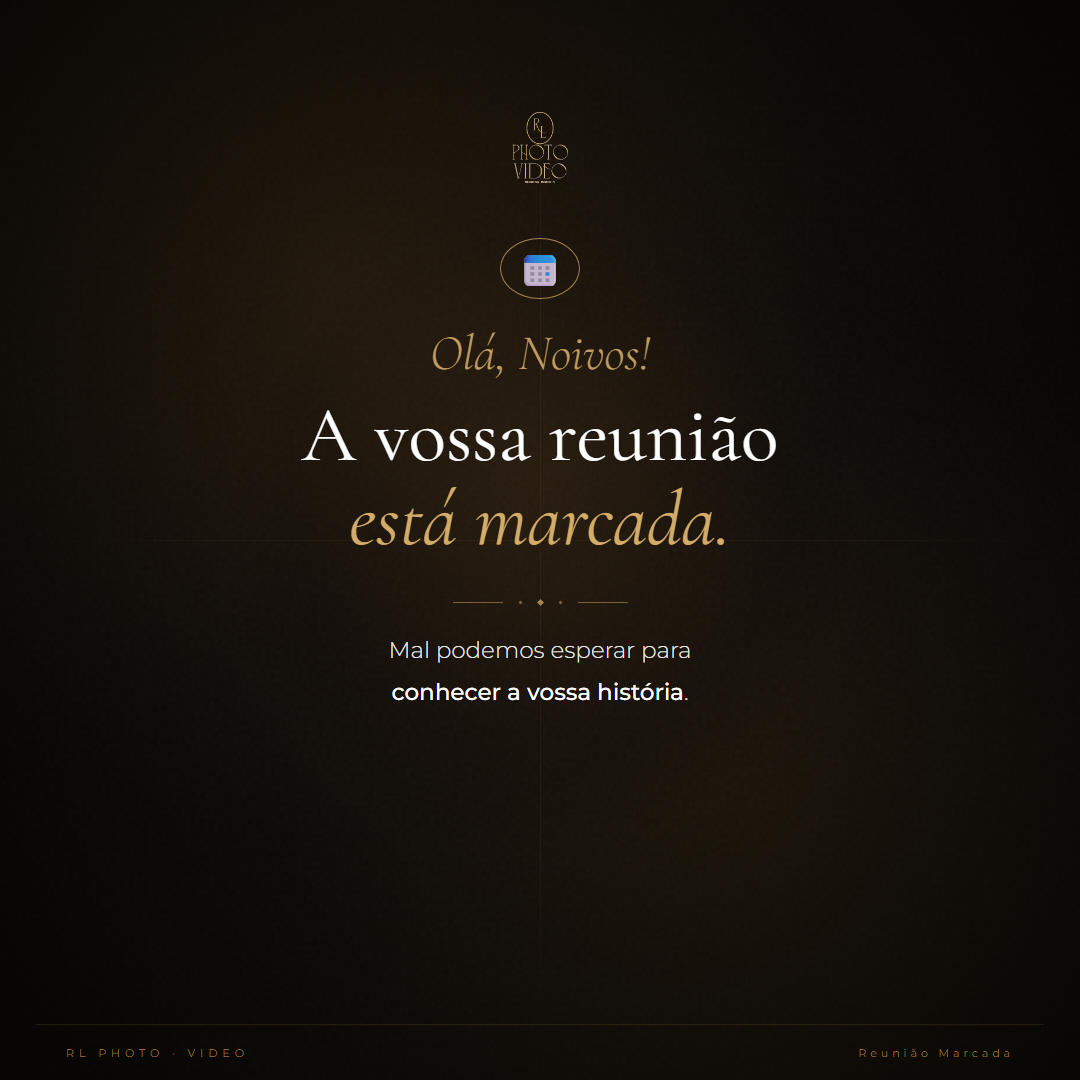
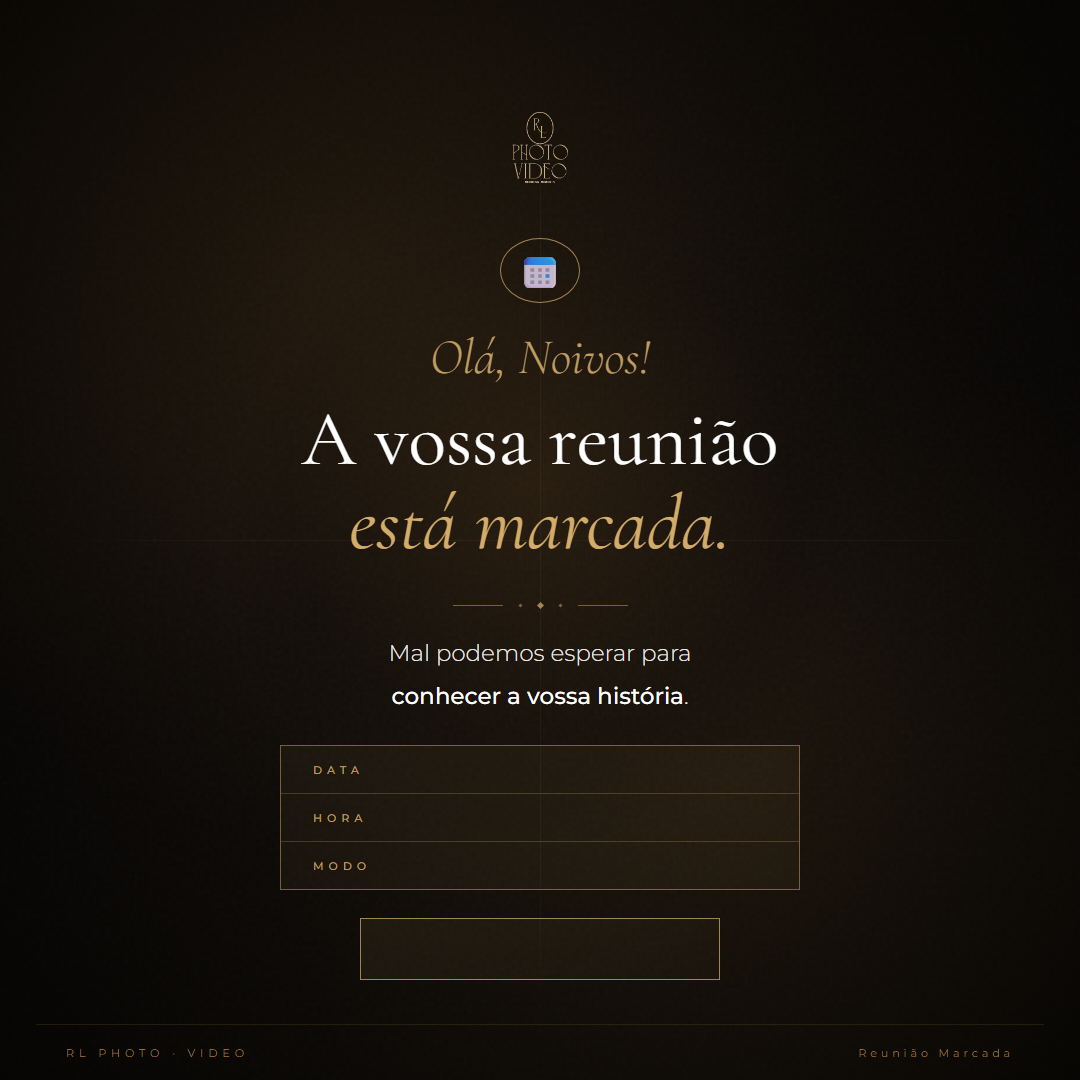
Email reunião: novo card com DATA/HORA/MODO, botão dinâmico Meet/Maps

diff --git a/app/api/send-reuniao-email/route.ts b/app/api/send-reuniao-email/route.ts
@@ -1,7 +1,8 @@
 import { NextRequest, NextResponse } from 'next/server'
 
-// Imagem de fundo: card design sem placeholders, espaço vazio no meio para os dados
 const IMAGE_URL = 'https://rl-menu-lake.vercel.app/card_reuniao_marcada.png'
+const MEET_LINK = 'https://meet.google.com/dih-etvh-xkh'
+const MAPS_LINK = 'https://www.google.com/maps/place/RL+Photo.Video/@38.7071885,-9.1450227,17z'
 
 function fmtData(d: string) {
   const [y, m, day] = d.split('-')
@@ -9,7 +10,7 @@ function fmtData(d: string) {
 }
 
 export async function POST(req: NextRequest) {
-  const { email, reuniao_data, reuniao_hora, reuniao_tipo, reuniao_link } = await req.json().catch(() => ({}))
+  const { email, reuniao_data, reuniao_hora, reuniao_tipo } = await req.json().catch(() => ({}))
 
   if (!email || !reuniao_data || !reuniao_hora) {
     return NextResponse.json({ error: 'email, reuniao_data e reuniao_hora são obrigatórios' }, { status: 400 })
@@ -17,14 +18,15 @@ export async function POST(req: NextRequest) {
 
   const dataFmt  = fmtData(reuniao_data)
   const isVideo  = reuniao_tipo === 'Videochamada'
-  const localTxt = isVideo ? 'Videochamada · Google Meet' : 'Estúdio RL Photo.Video'
-  const link     = reuniao_link || '#'
+  const modoTxt  = isVideo ? 'Videochamada' : 'Presencial'
+  const btnTxt   = isVideo ? 'Fazer Reunião' : 'Ver Localização'
+  const link     = isVideo ? MEET_LINK : MAPS_LINK
 
-  // Imagem 1080×1080 → exibida a 560px de largura → altura = 560px
-  // O espaço vazio (abaixo do subtítulo, acima do rodapé) começa ~57% = 320px
-  // Espaço disponível até ao rodapé: ~560 - 320 - 40(footer) = 200px
-  // Info box (3 linhas ~38px) = ~116px  |  gap 12px  |  botão ~56px  = ~184px ✓
-  const bg = '#0c0806'
+  // Imagem 1080×1080 exibida a 560px → 560px de altura
+  // Tabela DATA/HORA/MODO começa a ~372px do topo
+  // Cada linha ~30px → 3 linhas = 90px
+  // Botão começa a ~474px (~12px gap após tabela)
+  // Rodapé da imagem a ~515px
 
   const html = `<!DOCTYPE html>
 <html lang="pt">
@@ -41,55 +43,51 @@ export async function POST(req: NextRequest) {
            background-repeat:no-repeat;
            background-position:top center;">
 
-    <!-- ESPAÇO SUPERIOR: logo + heading + subtítulo da imagem -->
-    <!-- Imagem 1080×1080 a 560px: subtítulo termina ~350px, rodapé começa ~525px -->
-    <tr><td height="350" style="font-size:0;line-height:0;">&nbsp;</td></tr>
+    <!-- espaço superior: logo + heading + subtítulo -->
+    <tr><td height="372" style="font-size:0;line-height:0;">&nbsp;</td></tr>
 
-    <!-- DATA / HORA / LOCAL -->
+    <!-- VALORES: sobrepostos sobre as linhas DATA / HORA / MODO da imagem -->
     <tr>
       <td style="padding:0 70px;">
-        <table width="100%" cellpadding="0" cellspacing="0" style="border:1px solid #2a1e0e;">
+        <table width="100%" cellpadding="0" cellspacing="0">
           <tr>
-            <td align="left" width="90" valign="middle"
-              style="text-align:left;padding:9px 18px;border-bottom:1px solid #2e2416;border-right:1px solid #2e2416;font-size:9px;letter-spacing:0.4em;color:#7a6030;text-transform:uppercase;font-family:Arial,Helvetica,sans-serif;white-space:nowrap;">DATA</td>
-            <td align="right" valign="middle"
-              style="text-align:right;padding:9px 18px;border-bottom:1px solid #2e2416;font-size:16px;color:#e8dfc8;font-family:Georgia,'Times New Roman',serif;">${dataFmt}</td>
+            <td width="148" height="30" style="font-size:0;line-height:0;">&nbsp;</td>
+            <td align="right" height="30"
+              style="text-align:right;padding:0 18px;font-size:15px;color:#e8dfc8;font-family:Georgia,'Times New Roman',serif;vertical-align:middle;">${dataFmt}</td>
           </tr>
           <tr>
-            <td align="left" width="90" valign="middle"
-              style="text-align:left;padding:9px 18px;border-bottom:1px solid #2e2416;border-right:1px solid #2e2416;font-size:9px;letter-spacing:0.4em;color:#7a6030;text-transform:uppercase;font-family:Arial,Helvetica,sans-serif;white-space:nowrap;">HORA</td>
-            <td align="right" valign="middle"
-              style="text-align:right;padding:9px 18px;border-bottom:1px solid #2e2416;font-size:16px;color:#e8dfc8;font-family:Georgia,'Times New Roman',serif;">${reuniao_hora}</td>
+            <td width="148" height="30" style="font-size:0;line-height:0;">&nbsp;</td>
+            <td align="right" height="30"
+              style="text-align:right;padding:0 18px;font-size:15px;color:#e8dfc8;font-family:Georgia,'Times New Roman',serif;vertical-align:middle;">${reuniao_hora}</td>
           </tr>
           <tr>
-            <td align="left" width="90" valign="middle"
-              style="text-align:left;padding:9px 18px;border-right:1px solid #2e2416;font-size:9px;letter-spacing:0.4em;color:#7a6030;text-transform:uppercase;font-family:Arial,Helvetica,sans-serif;white-space:nowrap;">LOCAL</td>
-            <td align="right" valign="middle"
-              style="text-align:right;padding:9px 18px;font-size:16px;color:#e8dfc8;font-family:Georgia,'Times New Roman',serif;">${localTxt}</td>
+            <td width="148" height="30" style="font-size:0;line-height:0;">&nbsp;</td>
+            <td align="right" height="30"
+              style="text-align:right;padding:0 18px;font-size:15px;color:#e8dfc8;font-family:Georgia,'Times New Roman',serif;vertical-align:middle;">${modoTxt}</td>
           </tr>
         </table>
       </td>
     </tr>
 
     <!-- gap -->
-    <tr><td height="16" style="font-size:0;line-height:0;">&nbsp;</td></tr>
+    <tr><td height="14" style="font-size:0;line-height:0;">&nbsp;</td></tr>
 
-    <!-- BOTÃO -->
+    <!-- BOTÃO: sobreposto sobre o botão vazio da imagem -->
     <tr>
       <td style="padding:0 70px;">
         <table width="100%" cellpadding="0" cellspacing="0">
           <tr>
-            <td align="center" style="border:1px solid #c9a96e;">
+            <td align="center" height="40">
               <a href="${link}"
-                style="display:block;padding:16px 40px;font-family:Georgia,'Times New Roman',serif;font-size:18px;font-style:italic;font-weight:400;color:#c9a96e;text-decoration:none;letter-spacing:0.04em;">Aceder à Reunião</a>
+                style="display:block;padding:10px 40px;font-family:Georgia,'Times New Roman',serif;font-size:17px;font-style:italic;font-weight:400;color:#c9a96e;text-decoration:none;letter-spacing:0.04em;">${btnTxt}</a>
             </td>
           </tr>
         </table>
       </td>
     </tr>
 
-    <!-- ESPAÇO INFERIOR: rodapé da imagem -->
-    <tr><td height="30" style="font-size:0;line-height:0;">&nbsp;</td></tr>
+    <!-- espaço inferior: rodapé da imagem -->
+    <tr><td height="44" style="font-size:0;line-height:0;">&nbsp;</td></tr>
 
   </table>
 
